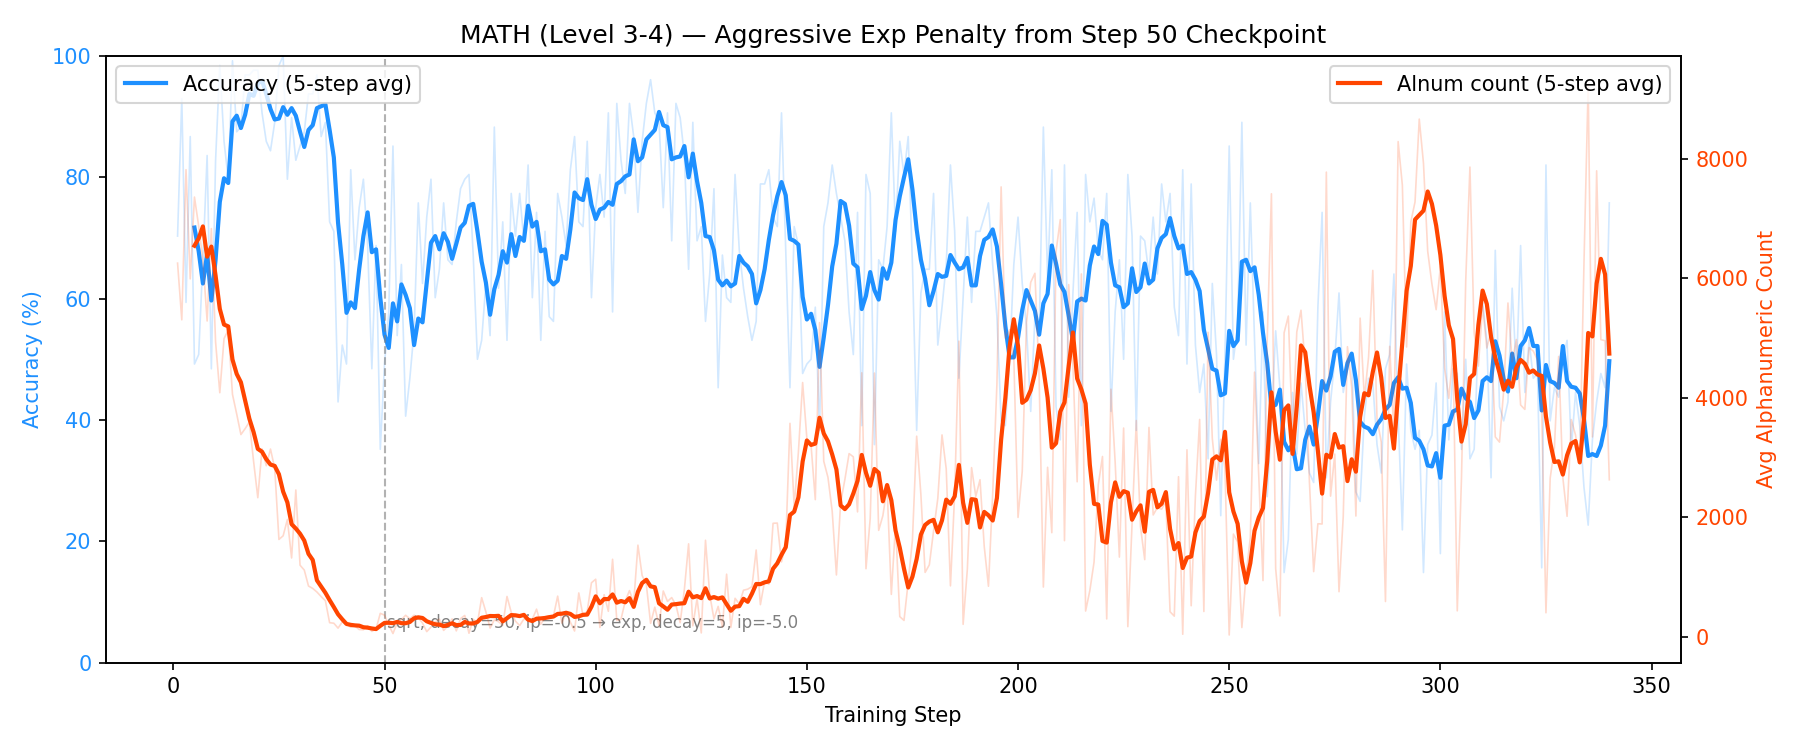
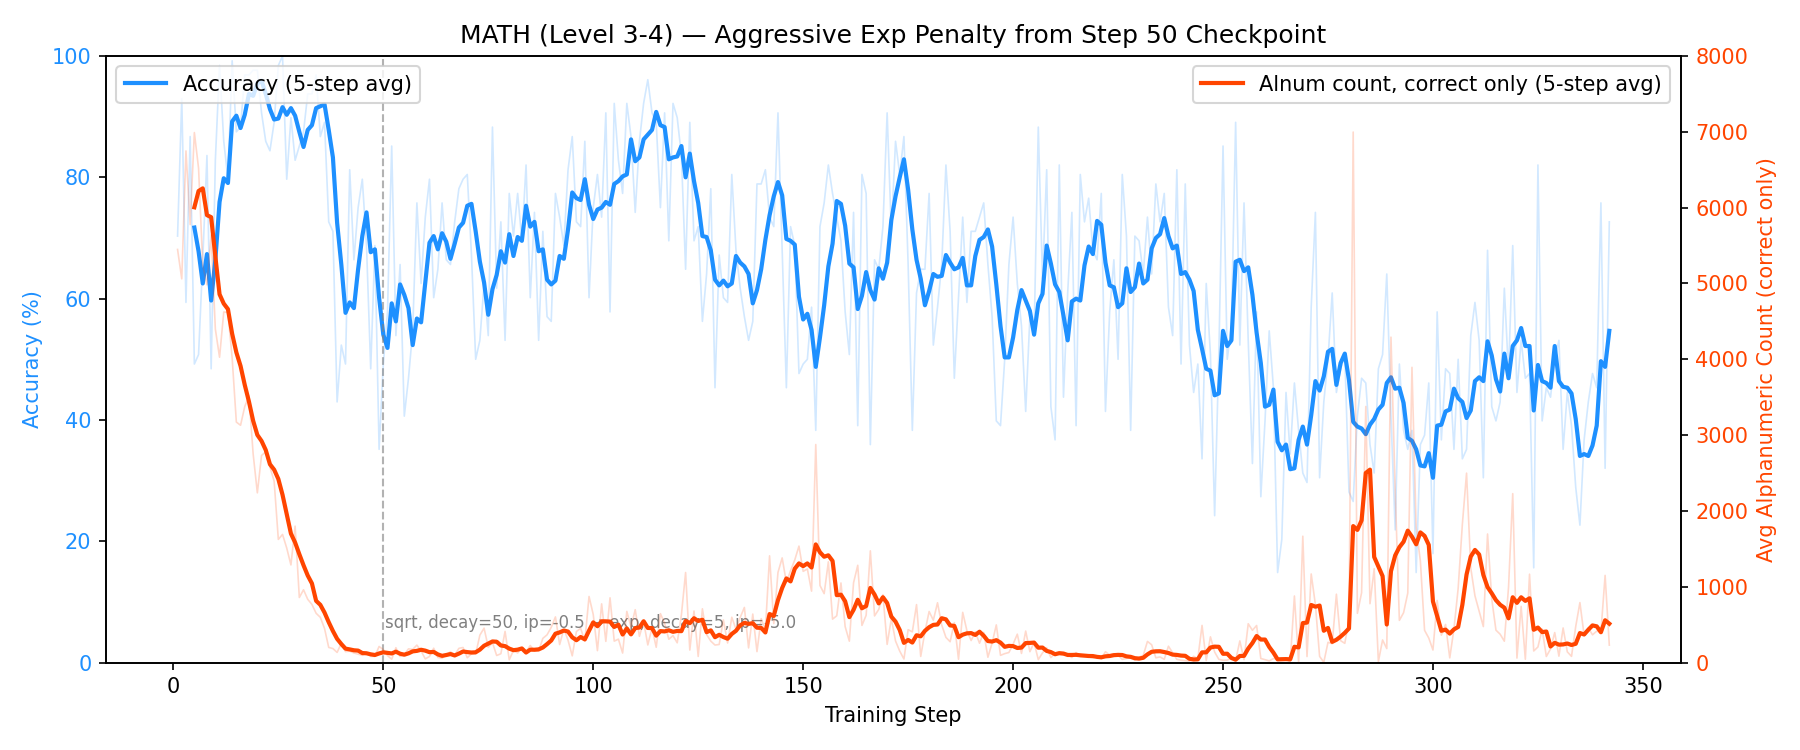
Fix exp plot to show correct-only alnum count
Previous plot was distorted by verbose incorrect answers spiking
the overall alnum to 6000+. Now shows alnum among correct answers
only, revealing the near-zero CoT regime after step 50.

diff --git a/scripts/plot_math_alnum_exp.py b/scripts/plot_math_alnum_exp.py
@@ -18,6 +18,7 @@ def load_rollout_stats(path):
     return {
         "accuracy": len(correct) / n * 100,
         "alnum_count": sum(r["alnum_count"] for r in rows) / n,
+        "alnum_count_correct": sum(r["alnum_count"] for r in correct) / len(correct) if correct else 0,
     }
 
 
@@ -29,6 +30,7 @@ def moving_avg(values, window=5):
 steps_orig = []
 acc_orig = []
 alnum_orig = []
+alnum_correct_orig = []
 for i in range(1, 51):
     p = ORIGINAL_RUN / f"{i}.jsonl"
     if not p.exists():
@@ -37,11 +39,13 @@ for i in range(1, 51):
     steps_orig.append(i)
     acc_orig.append(stats["accuracy"])
     alnum_orig.append(stats["alnum_count"])
+    alnum_correct_orig.append(stats["alnum_count_correct"])
 
 # Load exp run (offset steps by 50)
 steps_exp = []
 acc_exp = []
 alnum_exp = []
+alnum_correct_exp = []
 i = 1
 while True:
     p = EXP_RUN / f"{i}.jsonl"
@@ -51,18 +55,21 @@ while True:
     steps_exp.append(50 + i)
     acc_exp.append(stats["accuracy"])
     alnum_exp.append(stats["alnum_count"])
+    alnum_correct_exp.append(stats["alnum_count_correct"])
     i += 1
 
 # Combine
 all_steps = steps_orig + steps_exp
 all_acc = acc_orig + acc_exp
 all_alnum = alnum_orig + alnum_exp
+all_alnum_correct = alnum_correct_orig + alnum_correct_exp
 
 # Smoothed
 window = 5
 smooth_steps = all_steps[window - 1 :]
 smooth_acc = moving_avg(all_acc, window)
 smooth_alnum = moving_avg(all_alnum, window)
+smooth_alnum_correct = moving_avg(all_alnum_correct, window)
 
 # Plot
 fig, ax1 = plt.subplots(figsize=(12, 5))
@@ -70,11 +77,11 @@ ax2 = ax1.twinx()
 
 # Raw (faint)
 ax1.plot(all_steps, all_acc, color="dodgerblue", alpha=0.2, linewidth=0.8)
-ax2.plot(all_steps, all_alnum, color="orangered", alpha=0.2, linewidth=0.8)
+ax2.plot(all_steps, all_alnum_correct, color="orangered", alpha=0.2, linewidth=0.8)
 
 # Smoothed
 ax1.plot(smooth_steps, smooth_acc, color="dodgerblue", linewidth=2, label="Accuracy (5-step avg)")
-ax2.plot(smooth_steps, smooth_alnum, color="orangered", linewidth=2, label="Alnum count (5-step avg)")
+ax2.plot(smooth_steps, smooth_alnum_correct, color="orangered", linewidth=2, label="Alnum count, correct only (5-step avg)")
 
 # Phase boundary
 ax1.axvline(x=50, color="gray", linestyle="--", alpha=0.6, linewidth=1)
@@ -82,8 +89,9 @@ ax1.text(50.5, 5, "sqrt, decay=50, ip=-0.5 → exp, decay=5, ip=-5.0", fontsize=
 
 ax1.set_xlabel("Training Step")
 ax1.set_ylabel("Accuracy (%)", color="dodgerblue")
-ax2.set_ylabel("Avg Alphanumeric Count", color="orangered")
+ax2.set_ylabel("Avg Alphanumeric Count (correct only)", color="orangered")
 ax1.set_ylim(0, 100)
+ax2.set_ylim(0, 8000)
 ax1.tick_params(axis="y", labelcolor="dodgerblue")
 ax2.tick_params(axis="y", labelcolor="orangered")
 
